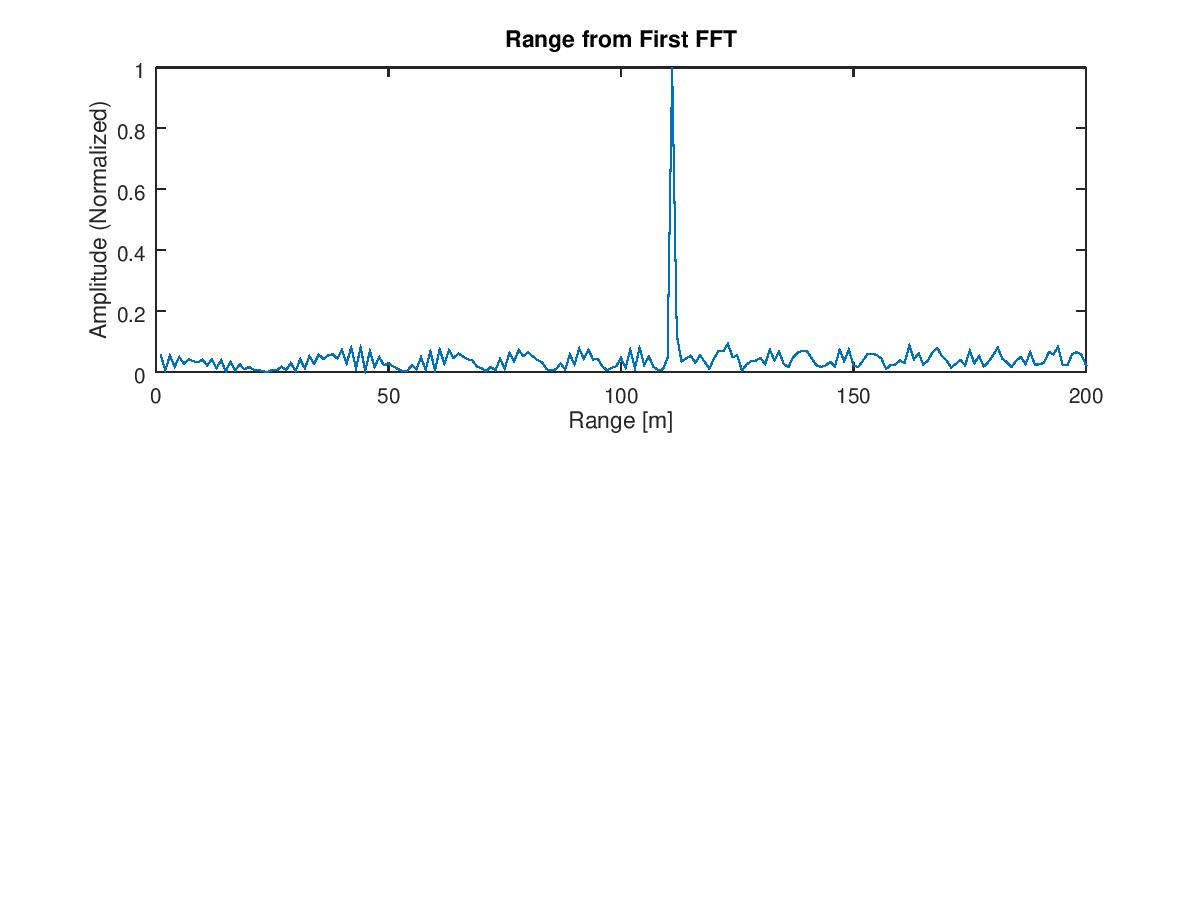
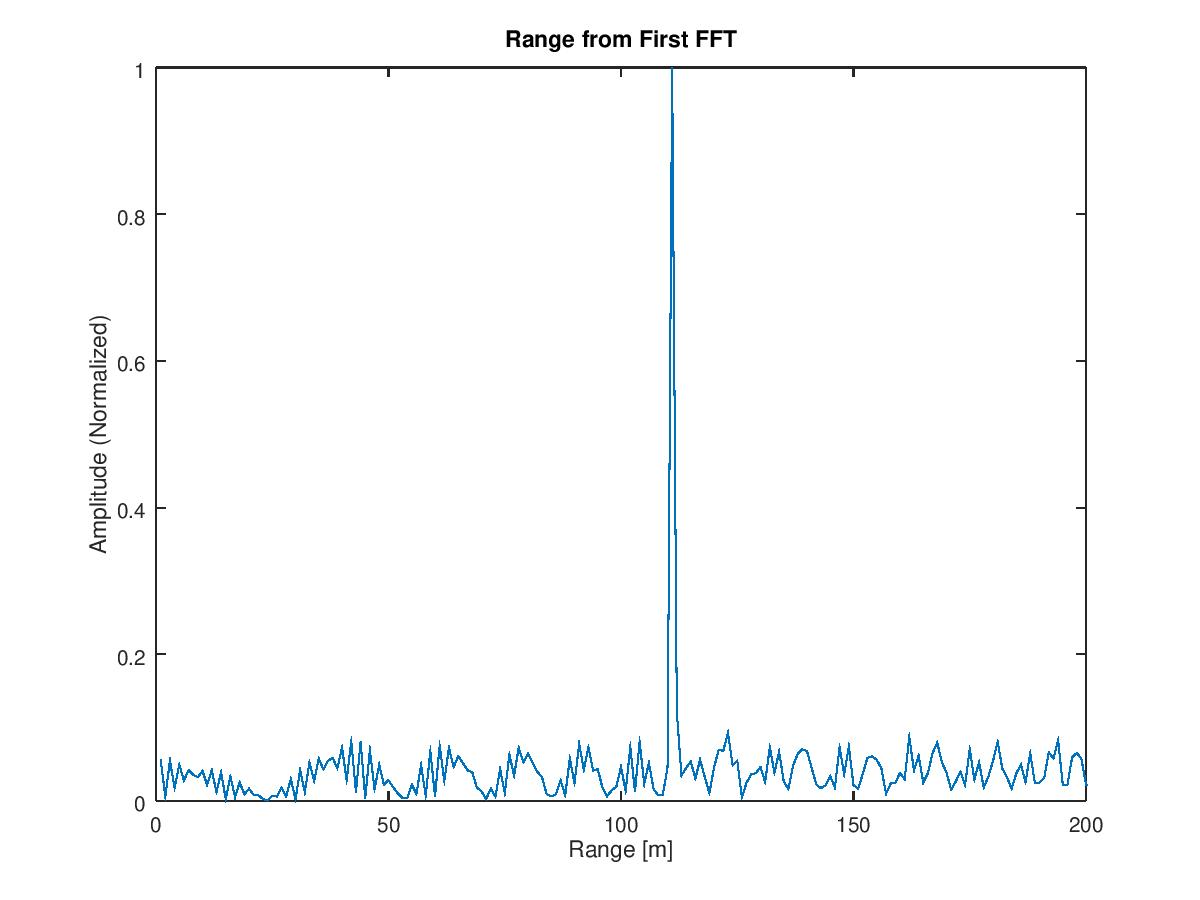
Added many changes to Readme and images

Changed region(s): [[0.0617, 0.0933, 0.925, 0.9644], [0.8942, 0.9022, 0.925, 0.9333], [0.0925, 0.7156, 0.1233, 0.7467]]

diff --git a/radar-target-generation-and-detection.m b/radar-target-generation-and-detection.m
@@ -18,7 +18,6 @@ c = 3e8
 % remains contant
 range = 110
 vel = -20
-
 max_range = 200
 range_res = 1
 max_vel = 100 % m/s
@@ -82,7 +81,6 @@ end
 
 %% RANGE MEASUREMENT
 
-
  % *%TODO* :
 %reshape the vector into Nr*Nd array. Nr and Nd here would also define the size of
 %Range and Doppler FFT respectively.
@@ -105,18 +103,18 @@ signal_fft = signal_fft(1 : Nr/2-1);
 
 
 %plotting the range
-%figure ('Name','Range from First FFT')
-%subplot(2,1,1)
+figure ('Name','Range from First FFT')
+#subplot(2,1,1)
 
  % *%TODO* :
  % plot FFT output 
-%plot(signal_fft);
-%axis ([0 180 0 1]);
-%title('Range from First FFT');
-%ylabel('Amplitude (Normalized)');
-%xlabel('Range [m]');
-%axis ([0 200 0 1]);
-
+plot(signal_fft);
+axis ([0 180 0 1]);
+title('Range from First FFT');
+ylabel('Amplitude (Normalized)');
+xlabel('Range [m]');
+axis ([0 200 0 1]);
+print -djpg range_1st_fft.jpg
 
 %% RANGE DOPPLER RESPONSE
 % The 2D FFT implementation is already provided here. This will run a 2DFFT

diff --git a/README.md b/README.md
@@ -1,1 +1,155 @@
-Initial ReadMe
+
+<div class="content">
+
+## Table of Contents
+
+<div>
+
+- [Radar Specifications]
+- [User Defined Range and Velocity of target]
+- [FMCW Waveform Generation]
+- [Signal generation and Moving Target simulation]
+- [RANGE MEASUREMENT]
+- [RANGE DOPPLER RESPONSE]
+- [CFAR implementation]
+
+</div>
+
+## Radar Specifications
+
+```{.codeinput}
+% Frequency of operation = 77GHz
+% Max Range = 200m
+% Range Resolution = 1 m
+% Max Velocity = 100 m/s
+```
+
+## User Defined Range and Velocity of target 
+
+https://github.com/davidsosa/radar-target-generation-and-detection/blob/master/radar-target-generation-and-detection.m#L19
+
+**%TODO** : define the target's initial position and velocity. Note :
+Velocity remains contant
+
+```{.codeinput}
+range = 110
+vel = -20
+max_range = 200
+range_res = 1
+max_vel = 100 % m/s
+```
+
+## FMCW Waveform Generation 
+https://github.com/davidsosa/radar-target-generation-and-detection/blob/master/radar-target-generation-and-detection.m#L19
+
+```{.codeinput}
+% *%TODO* :
+%Design the FMCW waveform by giving the specs of each of its parameters.
+% Calculate the Bandwidth (B), Chirp Time (Tchirp) and slope (slope) of the FMCW
+% chirp using the requirements above.
+
+%Operating carrier frequency of Radar
+% The sweep time can be computed based on the time needed for the signal to travel the unambiguous
+% maximum range. In general, for an FMCW radar system, the sweep time should be at least
+% 5 to 6 times the round trip time. This example uses a factor of 5.5.
+
+B = c / (2*range_res)
+Tchirp = 5.5 * 2 * (max_range/c)  
+slope = B/Tchirp
+
+%Operating carrier frequency of Radar 
+fc= 77e9;             %carrier freq
+
+%The number of chirps in one sequence. Its ideal to have 2^ value for the ease of running the FFT
+%for Doppler Estimation.
+Nd = 128;                   % #of doppler cells OR #of sent periods % number of chirps
+
+%The number of samples on each chirp.
+Nr = 1024;                  %for length of time OR # of range cells
+
+% Timestamp for running the displacement scenario for every sample on each
+% chirp
+t = linspace(0,Nd*t_chirp,Nr*Nd); %total time for samples
+
+%Creating the vectors for Tx, Rx and Mix based on the total samples input.
+Tx = zeros(1, length(t)); %transmitted signal
+Rx = zeros(1, length(t)); %received signal
+Mix = zeros(1, length(t)); %beat signal
+
+%Similar vectors for range_covered and time delay.
+r_t = zeros(1, length(t));
+td = zeros(1, length(t));
+```
+
+## Signal generation and Moving Target simulation 
+https://github.com/davidsosa/radar-target-generation-and-detection/blob/master/radar-target-generation-and-detection.m#L61
+
+Running the radar scenario over the time.
+
+```{.codeinput}
+
+for i=1:length(t)         
+  % *%TODO* 
+  %For each time stamp update the Range of the Target for constant velocity. 
+  r_t(i) = range + (vel*t(i));
+  td(i) = (2 * r_t(i)) / c;
+
+  % *%TODO* :
+  %For each time sample we need update the transmitted and
+  %received signal. 
+
+  Tx(i)   = cos(2*pi*(fc*t(i) + (slope*t(i)^2)/2 ) );
+  Rx(i)   = cos(2*pi*(fc*(t(i) -td(i)) + (slope * (t(i)-td(i))^2)/2 ) );
+    
+  % *%TODO* :
+  %Now by mixing the Transmit and Receive generate the beat signal
+  %This is done by element wise matrix multiplication of Transmit and
+  %Receiver Signal
+
+  Mix(i) = Tx(i) .* Rx(i);
+end
+
+```
+
+## RANGE MEASUREMENT 
+https://github.com/davidsosa/radar-target-generation-and-detection/blob/master/radar-target-generation-and-detection.m#L82
+
+
+**%TODO** :
+
+```{.codeinput}
+%reshape the vector into Nr*Nd array. Nr and Nd here would also define the size of
+%Range and Doppler FFT respectively.
+Mix = reshape(Mix, [Nr, Nd]);
+
+ % *%TODO* :
+%run the FFT on the beat signal along the range bins dimension (Nr) and
+%normalize.
+signal_fft = fft(Mix, Nr);
+
+ % *%TODO* :
+% Take the absolute value of FFT output
+signal_fft = abs(signal_fft);
+signal_fft = signal_fft ./ max(signal_fft); % Normalize
+
+ % *%TODO* :
+% Output of FFT is double sided signal, but we are interested in only one side of the spectrum.
+% Hence we throw out half of the samples.
+signal_fft = signal_fft(1 : Nr/2-1);
+
+plotting the range
+figure ('Name','Range from First FFT')
+
+ % *%TODO* :
+% plot FFT output 
+plot(signal_fft);
+axis ([0 180 0 1]);
+title('Range from First FFT');
+ylabel('Amplitude (Normalized)');
+xlabel('Range [m]');
+axis ([0 200 0 1]);
+
+```
+
+![](./images/range_1st_fft.jpg/)
+
